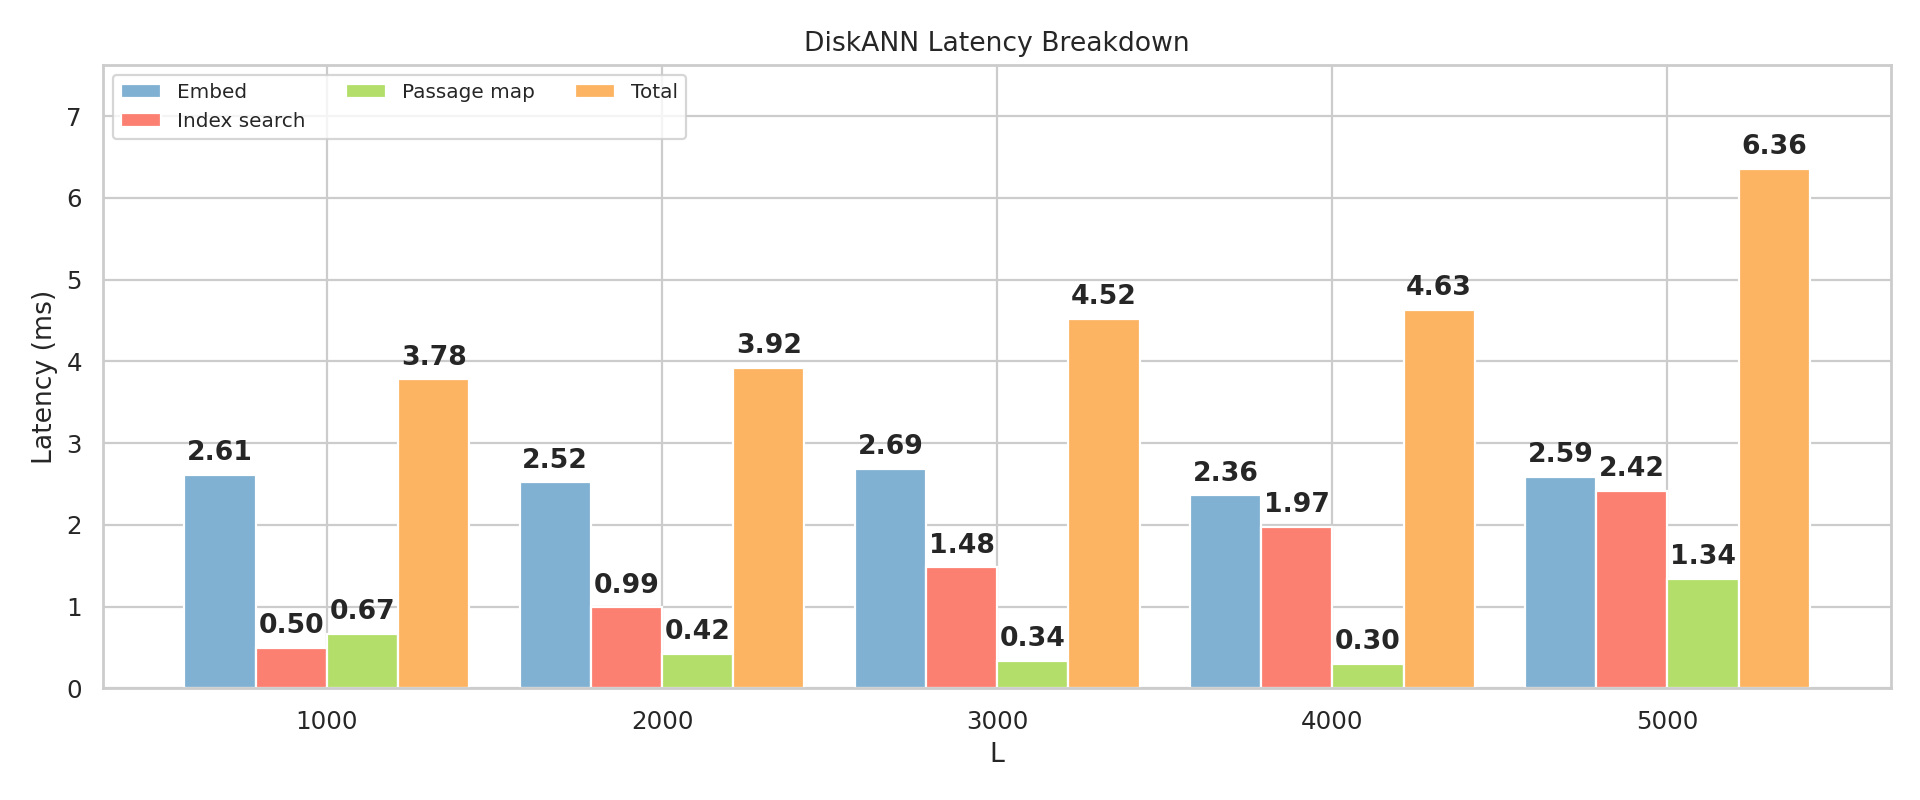
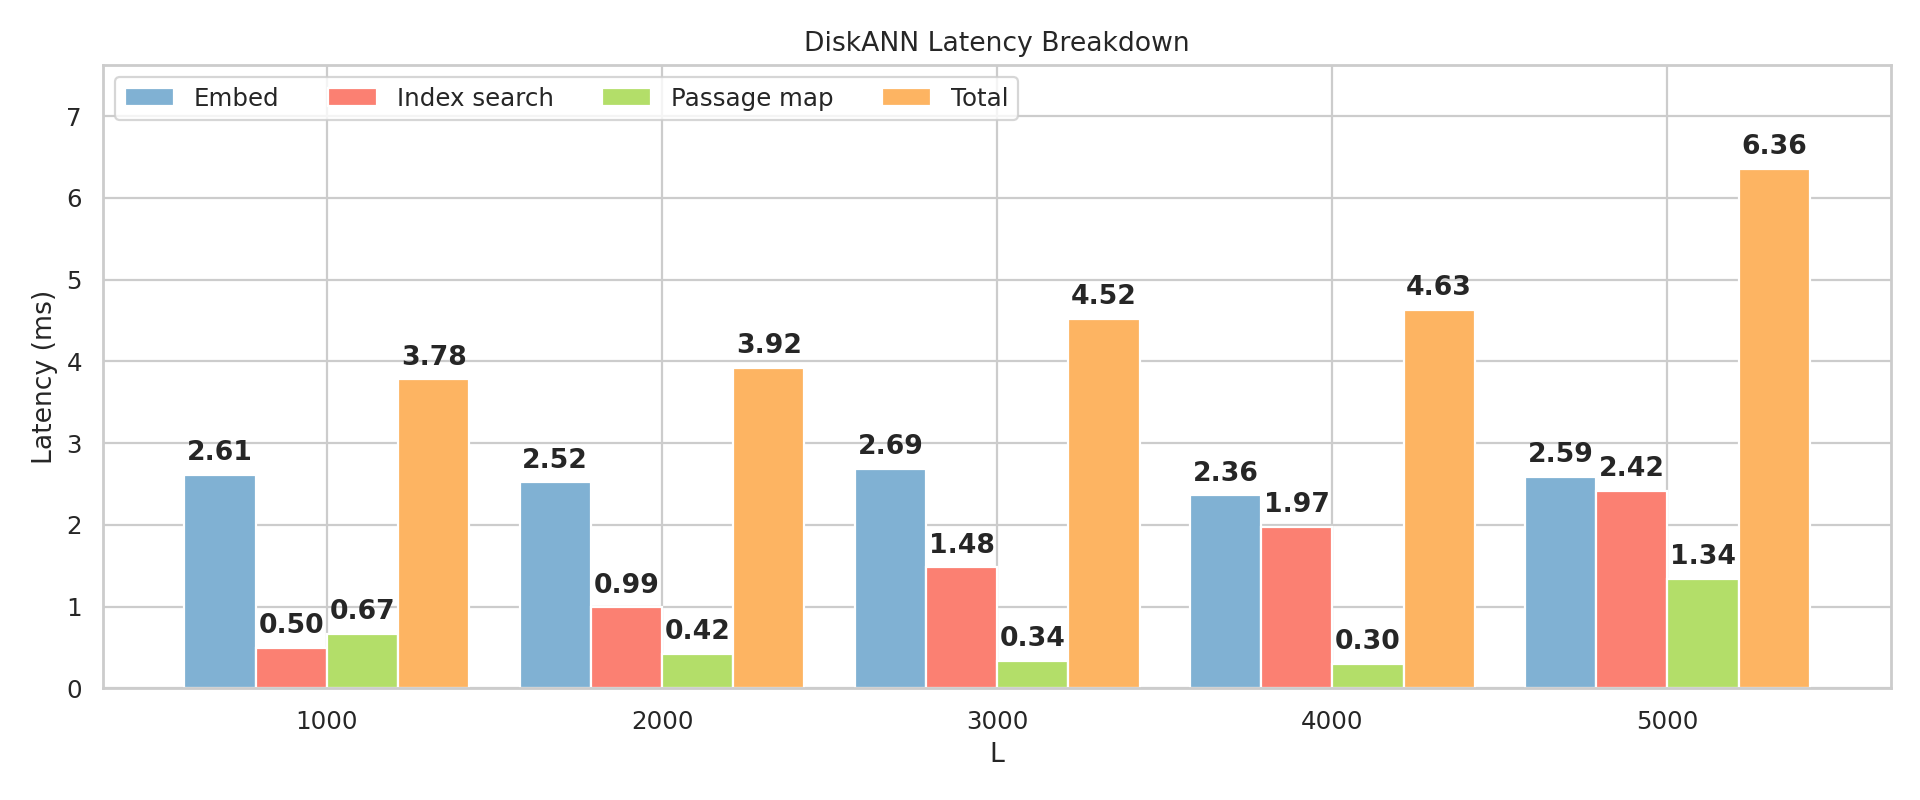
plot changes 2

Changed region(s): [[0.0625, 0.0938, 0.5312, 0.1875]]

diff --git a/scripts/plot_qps.py b/scripts/plot_qps.py
@@ -62,53 +62,49 @@ def plot_diskann_qps(data, out_dir: str) -> None:
 
 
 def plot_diskann_vs_ivfpq_summary(diskann_rows, faiss_rows, out_dir: str) -> None:
-    """Compare best QPS and latency between DiskANN and IVFPQ on one figure."""
-    # Best QPS rows
-    diskann_best_qps = max(diskann_rows, key=lambda r: r["QPS"])
-    faiss_best_qps = max(faiss_rows, key=lambda r: r["QPS"])
-    # Use the same rows for latency comparison (their total_ms)
-    diskann_latency = diskann_best_qps["total_ms"]
-    faiss_latency = faiss_best_qps["total_ms"]
-
+    """Throughput-only comparison with clear L/nprobe labels, more bars."""
     colors = {"DiskANN": "#80b1d3", "IVFPQ": "#fb8072"}  # darker Set3
 
-    fig, axs = plt.subplots(1, 2, figsize=(10, 4))
+    labels = []
+    vals = []
+    bar_colors = []
+    for r in sorted(diskann_rows, key=lambda r: r["L"]):
+        labels.append(f"DiskANN L={r['L']}")
+        vals.append(r["QPS"])
+        bar_colors.append(colors["DiskANN"])
+    for r in sorted(faiss_rows, key=lambda r: r["nprobe"]):
+        labels.append(f"IVFPQ nprobe={r['nprobe']}")
+        vals.append(r["QPS"])
+        bar_colors.append(colors["IVFPQ"])
 
-    # QPS comparison
-    qps_labels = ["DiskANN", "IVFPQ"]
-    qps_vals = [diskann_best_qps["QPS"], faiss_best_qps["QPS"]]
-    axs[0].bar(qps_labels, qps_vals, color=[colors["DiskANN"], colors["IVFPQ"]])
-    axs[0].set_title("Throughput (higher is better)")
-    axs[0].set_ylabel("QPS")
-    for i, v in enumerate(qps_vals):
-        axs[0].annotate(f"{v:.1f}", (i, v), ha="center", va="bottom",
-                        fontsize=11, fontweight="bold", xytext=(0, 4), textcoords="offset points")
+    plt.figure(figsize=(10, 4.5))
+    if sns:
+        sns.set_theme(style="whitegrid")
+    ax = plt.gca()
+    ax.bar(range(len(labels)), vals, color=bar_colors)
+
+    ax.set_xticks(range(len(labels)))
+    ax.set_xticklabels(labels, rotation=25, ha="right", fontsize=10)
+    ax.set_ylabel("QPS")
+    ax.set_title("DiskANN vs IVFPQ throughput (higher is better)")
+    ax.legend(handles=[
+        plt.Rectangle((0, 0), 1, 1, color=colors["DiskANN"], label="DiskANN"),
+        plt.Rectangle((0, 0), 1, 1, color=colors["IVFPQ"], label="IVFPQ"),
+    ], fontsize=11)
+
+    for i, v in enumerate(vals):
+        ax.annotate(f"{v:.1f}", (i, v), ha="center", va="bottom",
+                    fontsize=10, fontweight="bold", xytext=(0, 4), textcoords="offset points")
+
     try:
-        ymax = max(qps_vals)
+        ymax = max(vals)
         if math.isfinite(ymax) and ymax > 0:
-            axs[0].set_ylim(0, ymax * 1.15)
+            ax.set_ylim(0, ymax * 1.15)
     except Exception:
         pass
 
-    # Latency comparison (total_ms)
-    lat_labels = ["DiskANN", "IVFPQ"]
-    lat_vals = [diskann_latency, faiss_latency]
-    axs[1].bar(lat_labels, lat_vals, color=[colors["DiskANN"], colors["IVFPQ"]])
-    axs[1].set_title("End-to-end latency (lower is better)")
-    axs[1].set_ylabel("Latency (ms)")
-    for i, v in enumerate(lat_vals):
-        axs[1].annotate(f"{v:.2f}", (i, v), ha="center", va="bottom",
-                        fontsize=11, fontweight="bold", xytext=(0, 4), textcoords="offset points")
-    try:
-        ymax = max(lat_vals)
-        if math.isfinite(ymax) and ymax > 0:
-            axs[1].set_ylim(0, ymax * 1.15)
-    except Exception:
-        pass
-
-    fig.suptitle("DiskANN vs IVFPQ (same plot): DiskANN recommended", fontsize=14, fontweight="bold")
     plt.tight_layout()
-    plt.savefig(os.path.join(out_dir, "diskann_vs_ivfpq_qps_latency.png"), dpi=160)
+    plt.savefig(os.path.join(out_dir, "diskann_vs_ivfpq_qps_multi.png"), dpi=160)
     plt.close()
 
 
@@ -161,7 +157,7 @@ def plot_diskann_latency_breakdown(data, out_dir: str) -> None:
     ax.set_xlabel("L")
     ax.set_ylabel("Latency (ms)")
     ax.set_title("DiskANN Latency Breakdown")
-    ax.legend(ncol=3, fontsize=9)
+    ax.legend(ncol=4, fontsize=11, loc="upper left")
 
     # Add headroom so annotations don't clip
     try:

diff --git a/scripts/plot_diskann_single_request_latency.py b/scripts/plot_diskann_single_request_latency.py
@@ -79,7 +79,7 @@ def main() -> None:
     ax.set_xlabel("L", fontsize=13)
     ax.set_ylabel("Latency (ms)", fontsize=13)  # match breakdown style; not bold
     ax.set_title("DiskANN Single-request Latency Breakdown", fontsize=14)  # smaller, unbold
-    ax.legend(ncol=4, fontsize=11)
+    ax.legend(ncol=4, fontsize=11, loc="upper left")
 
     for tick in list(ax.get_xticklabels()) + list(ax.get_yticklabels()):
         tick.set_fontsize(11)

diff --git a/docs/index.md b/docs/index.md
@@ -325,10 +325,10 @@ This represents a significantly larger datastore than most prior work, and to th
   <img src="{{ 'accuracy_ivfpq_vs_diskann_triviaqa.png' | relative_url }}" alt="TriviaQA accuracy DiskANN vs IVFPQ" style="width: 44%; margin: 8px;" />
   <img src="{{ 'accuracy_ivfpq_vs_diskann_naturalqs.png' | relative_url }}" alt="NaturalQS accuracy DiskANN vs IVFPQ" style="width: 44%; margin: 8px;" />
 </p>
-<h3 align="center">DiskANN vs IVFPQ: throughput and latency (same graph)</h3>
-<p>Combined comparison: DiskANN achieves higher QPS and lower end-to-end latency than IVFPQ under the tested configs, so DiskANN is the recommended default.</p>
+<h3 align="center">DiskANN vs IVFPQ: throughput (same graph)</h3>
+<p>Combined throughput: DiskANN achieves higher QPS than IVFPQ across tested configs; labels show L (DiskANN) and nprobe (IVFPQ). DiskANN remains the recommended default.</p>
 <p align="center">
-  <img src="{{ 'plots/diskann_vs_ivfpq_qps_latency.png' | relative_url }}" alt="DiskANN vs IVFPQ QPS and latency" style="width: 70%; margin: 8px;" />
+  <img src="{{ 'plots/diskann_vs_ivfpq_qps_multi.png' | relative_url }}" alt="DiskANN vs IVFPQ throughput comparison" style="width: 75%; margin: 8px;" />
 </p>
 <hr />
 
